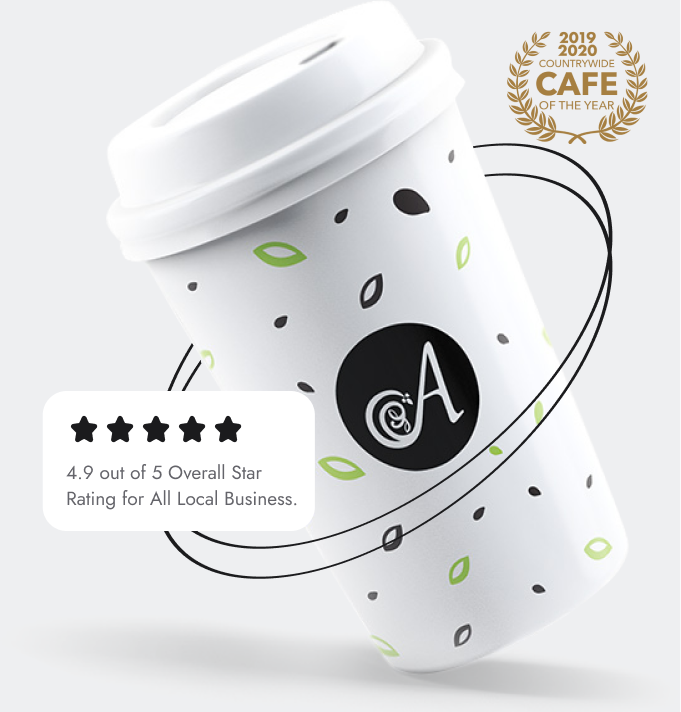
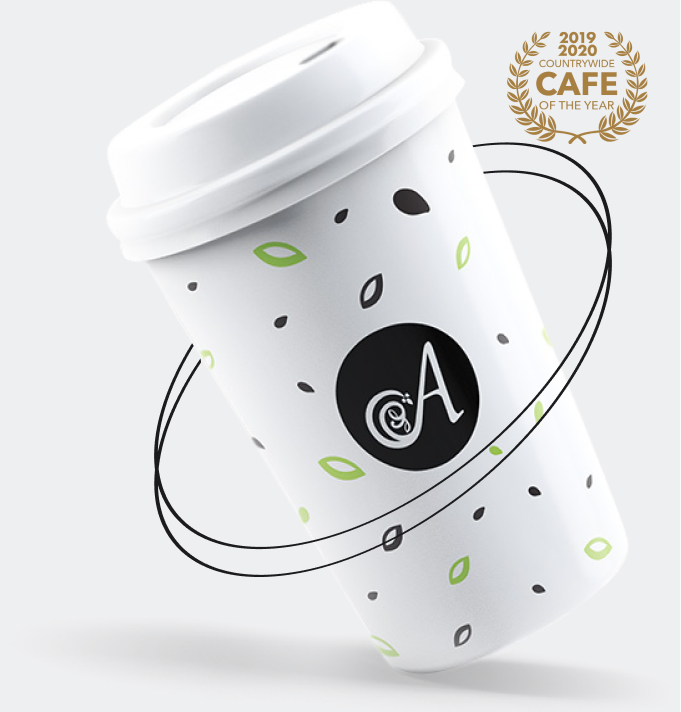
header-img_correction

diff --git a/index.html b/index.html
@@ -64,6 +64,26 @@
                 </div>
                 <div class="header__img">
                     <img src="./img/header-img.png" alt="">
+                    <div class="img__rating">
+                        <div class="img__stars">
+                            <svg width="37" height="36" viewBox="0 0 37 36" fill="none" xmlns="http://www.w3.org/2000/svg">
+                                <path d="M26.4665 21.39C26.3459 21.5136 26.2537 21.662 26.1965 21.825C26.1587 21.9979 26.1587 22.177 26.1965 22.35L27.0815 28.245C27.1604 28.705 27.1084 29.178 26.9315 29.61C26.7518 30.0464 26.4496 30.4215 26.0615 30.69C25.6767 30.9604 25.2256 31.1211 24.7565 31.155C24.2892 31.1741 23.8261 31.0597 23.4215 30.825L18.6365 28.17C18.4763 28.0798 18.2953 28.0333 18.1115 28.035C17.9229 28.0334 17.7371 28.0799 17.5715 28.17L12.8165 30.825C12.4021 31.047 11.9364 31.1557 11.4665 31.14C11.1186 31.1172 10.7794 31.0221 10.4704 30.8607C10.1614 30.6993 9.88946 30.4752 9.67204 30.2027C9.45461 29.9302 9.29646 29.6154 9.20768 29.2783C9.11891 28.9411 9.10147 28.5892 9.15649 28.245L10.1165 22.35C10.1616 22.1779 10.1616 21.9971 10.1165 21.825C10.0705 21.6604 9.98261 21.5105 9.86149 21.39L5.64649 17.145C5.33192 16.8129 5.10957 16.4044 5.00149 15.96C4.88167 15.518 4.88167 15.052 5.00149 14.61C5.16749 14.1743 5.44719 13.791 5.81149 13.5C6.16335 13.2037 6.58801 13.0069 7.04149 12.93L12.5765 12.09C12.7551 12.0578 12.9242 11.9861 13.0715 11.88C13.2175 11.7686 13.3356 11.6248 13.4165 11.46L15.8165 6.29998C16.0154 5.87007 16.3328 5.50582 16.7315 5.24998C17.1329 4.99517 17.5985 4.85986 18.074 4.85986C18.5494 4.85986 19.0151 4.99517 19.4165 5.24998C19.8152 5.50582 20.1326 5.87007 20.3315 6.29998L22.7465 11.46C22.8226 11.6278 22.9416 11.7727 23.0915 11.88C23.2371 11.989 23.4069 12.061 23.5865 12.09L29.1215 12.93C29.575 13.0069 29.9996 13.2037 30.3515 13.5C30.696 13.8026 30.9546 14.1906 31.1015 14.625C31.2213 15.067 31.2213 15.533 31.1015 15.975C30.9934 16.4194 30.7711 16.8279 30.4565 17.16L26.4665 21.39Z" fill="#1B1B1D"/>
+                            </svg>
+                            <svg width="37" height="36" viewBox="0 0 37 36" fill="none" xmlns="http://www.w3.org/2000/svg">
+                                <path d="M26.4665 21.39C26.3459 21.5136 26.2537 21.662 26.1965 21.825C26.1587 21.9979 26.1587 22.177 26.1965 22.35L27.0815 28.245C27.1604 28.705 27.1084 29.178 26.9315 29.61C26.7518 30.0464 26.4496 30.4215 26.0615 30.69C25.6767 30.9604 25.2256 31.1211 24.7565 31.155C24.2892 31.1741 23.8261 31.0597 23.4215 30.825L18.6365 28.17C18.4763 28.0798 18.2953 28.0333 18.1115 28.035C17.9229 28.0334 17.7371 28.0799 17.5715 28.17L12.8165 30.825C12.4021 31.047 11.9364 31.1557 11.4665 31.14C11.1186 31.1172 10.7794 31.0221 10.4704 30.8607C10.1614 30.6993 9.88946 30.4752 9.67204 30.2027C9.45461 29.9302 9.29646 29.6154 9.20768 29.2783C9.11891 28.9411 9.10147 28.5892 9.15649 28.245L10.1165 22.35C10.1616 22.1779 10.1616 21.9971 10.1165 21.825C10.0705 21.6604 9.98261 21.5105 9.86149 21.39L5.64649 17.145C5.33192 16.8129 5.10957 16.4044 5.00149 15.96C4.88167 15.518 4.88167 15.052 5.00149 14.61C5.16749 14.1743 5.44719 13.791 5.81149 13.5C6.16335 13.2037 6.58801 13.0069 7.04149 12.93L12.5765 12.09C12.7551 12.0578 12.9242 11.9861 13.0715 11.88C13.2175 11.7686 13.3356 11.6248 13.4165 11.46L15.8165 6.29998C16.0154 5.87007 16.3328 5.50582 16.7315 5.24998C17.1329 4.99517 17.5985 4.85986 18.074 4.85986C18.5494 4.85986 19.0151 4.99517 19.4165 5.24998C19.8152 5.50582 20.1326 5.87007 20.3315 6.29998L22.7465 11.46C22.8226 11.6278 22.9416 11.7727 23.0915 11.88C23.2371 11.989 23.4069 12.061 23.5865 12.09L29.1215 12.93C29.575 13.0069 29.9996 13.2037 30.3515 13.5C30.696 13.8026 30.9546 14.1906 31.1015 14.625C31.2213 15.067 31.2213 15.533 31.1015 15.975C30.9934 16.4194 30.7711 16.8279 30.4565 17.16L26.4665 21.39Z" fill="#1B1B1D"/>
+                            </svg>
+                            <svg width="37" height="36" viewBox="0 0 37 36" fill="none" xmlns="http://www.w3.org/2000/svg">
+                                <path d="M26.4665 21.39C26.3459 21.5136 26.2537 21.662 26.1965 21.825C26.1587 21.9979 26.1587 22.177 26.1965 22.35L27.0815 28.245C27.1604 28.705 27.1084 29.178 26.9315 29.61C26.7518 30.0464 26.4496 30.4215 26.0615 30.69C25.6767 30.9604 25.2256 31.1211 24.7565 31.155C24.2892 31.1741 23.8261 31.0597 23.4215 30.825L18.6365 28.17C18.4763 28.0798 18.2953 28.0333 18.1115 28.035C17.9229 28.0334 17.7371 28.0799 17.5715 28.17L12.8165 30.825C12.4021 31.047 11.9364 31.1557 11.4665 31.14C11.1186 31.1172 10.7794 31.0221 10.4704 30.8607C10.1614 30.6993 9.88946 30.4752 9.67204 30.2027C9.45461 29.9302 9.29646 29.6154 9.20768 29.2783C9.11891 28.9411 9.10147 28.5892 9.15649 28.245L10.1165 22.35C10.1616 22.1779 10.1616 21.9971 10.1165 21.825C10.0705 21.6604 9.98261 21.5105 9.86149 21.39L5.64649 17.145C5.33192 16.8129 5.10957 16.4044 5.00149 15.96C4.88167 15.518 4.88167 15.052 5.00149 14.61C5.16749 14.1743 5.44719 13.791 5.81149 13.5C6.16335 13.2037 6.58801 13.0069 7.04149 12.93L12.5765 12.09C12.7551 12.0578 12.9242 11.9861 13.0715 11.88C13.2175 11.7686 13.3356 11.6248 13.4165 11.46L15.8165 6.29998C16.0154 5.87007 16.3328 5.50582 16.7315 5.24998C17.1329 4.99517 17.5985 4.85986 18.074 4.85986C18.5494 4.85986 19.0151 4.99517 19.4165 5.24998C19.8152 5.50582 20.1326 5.87007 20.3315 6.29998L22.7465 11.46C22.8226 11.6278 22.9416 11.7727 23.0915 11.88C23.2371 11.989 23.4069 12.061 23.5865 12.09L29.1215 12.93C29.575 13.0069 29.9996 13.2037 30.3515 13.5C30.696 13.8026 30.9546 14.1906 31.1015 14.625C31.2213 15.067 31.2213 15.533 31.1015 15.975C30.9934 16.4194 30.7711 16.8279 30.4565 17.16L26.4665 21.39Z" fill="#1B1B1D"/>
+                            </svg>
+                            <svg width="37" height="36" viewBox="0 0 37 36" fill="none" xmlns="http://www.w3.org/2000/svg">
+                                <path d="M26.4665 21.39C26.3459 21.5136 26.2537 21.662 26.1965 21.825C26.1587 21.9979 26.1587 22.177 26.1965 22.35L27.0815 28.245C27.1604 28.705 27.1084 29.178 26.9315 29.61C26.7518 30.0464 26.4496 30.4215 26.0615 30.69C25.6767 30.9604 25.2256 31.1211 24.7565 31.155C24.2892 31.1741 23.8261 31.0597 23.4215 30.825L18.6365 28.17C18.4763 28.0798 18.2953 28.0333 18.1115 28.035C17.9229 28.0334 17.7371 28.0799 17.5715 28.17L12.8165 30.825C12.4021 31.047 11.9364 31.1557 11.4665 31.14C11.1186 31.1172 10.7794 31.0221 10.4704 30.8607C10.1614 30.6993 9.88946 30.4752 9.67204 30.2027C9.45461 29.9302 9.29646 29.6154 9.20768 29.2783C9.11891 28.9411 9.10147 28.5892 9.15649 28.245L10.1165 22.35C10.1616 22.1779 10.1616 21.9971 10.1165 21.825C10.0705 21.6604 9.98261 21.5105 9.86149 21.39L5.64649 17.145C5.33192 16.8129 5.10957 16.4044 5.00149 15.96C4.88167 15.518 4.88167 15.052 5.00149 14.61C5.16749 14.1743 5.44719 13.791 5.81149 13.5C6.16335 13.2037 6.58801 13.0069 7.04149 12.93L12.5765 12.09C12.7551 12.0578 12.9242 11.9861 13.0715 11.88C13.2175 11.7686 13.3356 11.6248 13.4165 11.46L15.8165 6.29998C16.0154 5.87007 16.3328 5.50582 16.7315 5.24998C17.1329 4.99517 17.5985 4.85986 18.074 4.85986C18.5494 4.85986 19.0151 4.99517 19.4165 5.24998C19.8152 5.50582 20.1326 5.87007 20.3315 6.29998L22.7465 11.46C22.8226 11.6278 22.9416 11.7727 23.0915 11.88C23.2371 11.989 23.4069 12.061 23.5865 12.09L29.1215 12.93C29.575 13.0069 29.9996 13.2037 30.3515 13.5C30.696 13.8026 30.9546 14.1906 31.1015 14.625C31.2213 15.067 31.2213 15.533 31.1015 15.975C30.9934 16.4194 30.7711 16.8279 30.4565 17.16L26.4665 21.39Z" fill="#1B1B1D"/>
+                            </svg>
+                            <svg width="37" height="36" viewBox="0 0 37 36" fill="none" xmlns="http://www.w3.org/2000/svg">
+                                <path d="M26.4665 21.39C26.3459 21.5136 26.2537 21.662 26.1965 21.825C26.1587 21.9979 26.1587 22.177 26.1965 22.35L27.0815 28.245C27.1604 28.705 27.1084 29.178 26.9315 29.61C26.7518 30.0464 26.4496 30.4215 26.0615 30.69C25.6767 30.9604 25.2256 31.1211 24.7565 31.155C24.2892 31.1741 23.8261 31.0597 23.4215 30.825L18.6365 28.17C18.4763 28.0798 18.2953 28.0333 18.1115 28.035C17.9229 28.0334 17.7371 28.0799 17.5715 28.17L12.8165 30.825C12.4021 31.047 11.9364 31.1557 11.4665 31.14C11.1186 31.1172 10.7794 31.0221 10.4704 30.8607C10.1614 30.6993 9.88946 30.4752 9.67204 30.2027C9.45461 29.9302 9.29646 29.6154 9.20768 29.2783C9.11891 28.9411 9.10147 28.5892 9.15649 28.245L10.1165 22.35C10.1616 22.1779 10.1616 21.9971 10.1165 21.825C10.0705 21.6604 9.98261 21.5105 9.86149 21.39L5.64649 17.145C5.33192 16.8129 5.10957 16.4044 5.00149 15.96C4.88167 15.518 4.88167 15.052 5.00149 14.61C5.16749 14.1743 5.44719 13.791 5.81149 13.5C6.16335 13.2037 6.58801 13.0069 7.04149 12.93L12.5765 12.09C12.7551 12.0578 12.9242 11.9861 13.0715 11.88C13.2175 11.7686 13.3356 11.6248 13.4165 11.46L15.8165 6.29998C16.0154 5.87007 16.3328 5.50582 16.7315 5.24998C17.1329 4.99517 17.5985 4.85986 18.074 4.85986C18.5494 4.85986 19.0151 4.99517 19.4165 5.24998C19.8152 5.50582 20.1326 5.87007 20.3315 6.29998L22.7465 11.46C22.8226 11.6278 22.9416 11.7727 23.0915 11.88C23.2371 11.989 23.4069 12.061 23.5865 12.09L29.1215 12.93C29.575 13.0069 29.9996 13.2037 30.3515 13.5C30.696 13.8026 30.9546 14.1906 31.1015 14.625C31.2213 15.067 31.2213 15.533 31.1015 15.975C30.9934 16.4194 30.7711 16.8279 30.4565 17.16L26.4665 21.39Z" fill="#1B1B1D"/>
+                            </svg>
+                        </div>
+                        <p>4.9 out of 5 Overall Star Rating for All Local Business.</p>
+                    </div>
                 </div>
             </div>
         </div>

diff --git a/css/main.css b/css/main.css
@@ -77,6 +77,30 @@ a {
     height: 712px;
 }
 
+/* Header Rating Info */
+
+.img__rating {
+    padding: 20px 16px 20px 23px;
+    background-color: #fff;
+    border-radius: 24px;
+    position: absolute;
+    top: 60%;
+    right: 57%;
+    max-width: unset;
+    width: 272px;
+}
+
+.img__rating p {
+    font-size: 19px;
+    color: var(--secondary);
+    max-width: 232px;
+}
+
+.img__stars {
+    display: flex;
+    margin-bottom: 12px;
+}
+
 /* Navigation */
 
 .nav {
